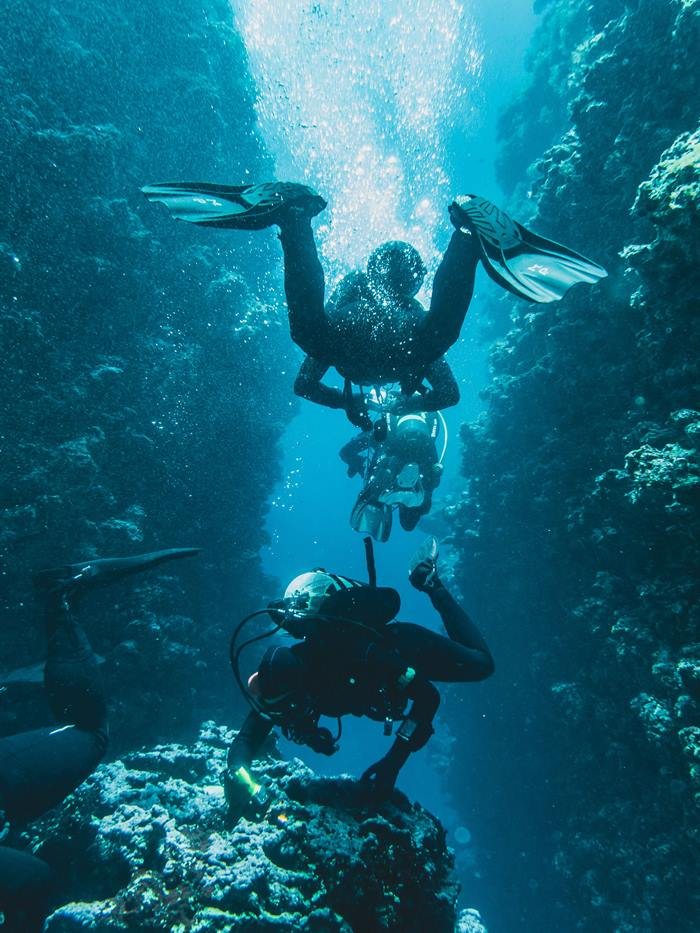
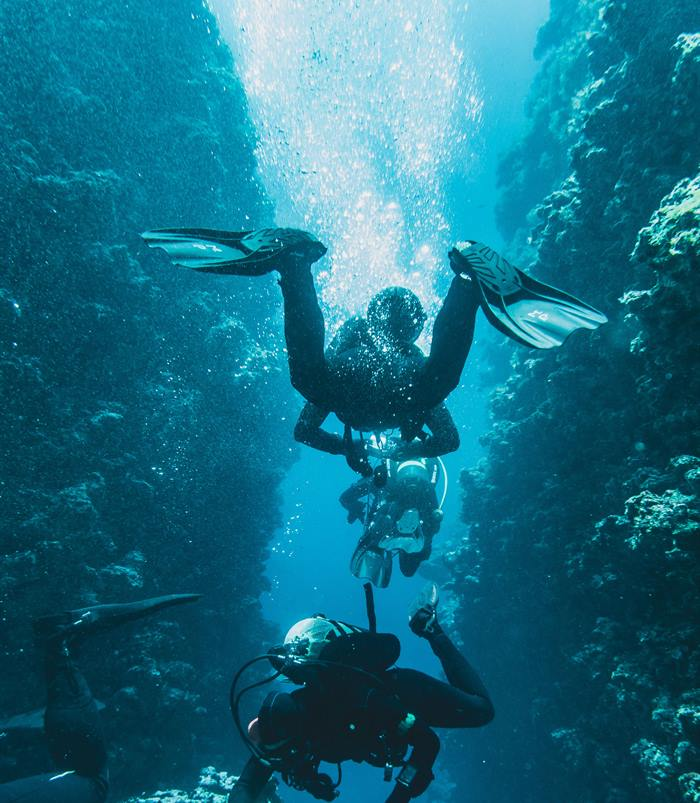
Mobile hero: two-line headline with the diver centred between lines

diff --git a/css/styles.css b/css/styles.css
@@ -1094,13 +1094,15 @@ figcaption .image-note { margin-left: auto; }
   .brand__name span { font-size: 0.92rem; }
 
   .hero { min-height: max(100svh, 640px); }
-  .hero__media img { object-position: 50% 30%; }
+  .hero { background: var(--ink); }
+  .hero__media { bottom: auto; height: max(100svh, 640px); }
+  .hero__media img { object-position: 64% 50%; }
   .hero__inner { padding-bottom: 2.5rem; }
-  .hero__eyebrow { text-align: left; letter-spacing: 0.22em; font-size: 0.7rem; }
-  .hero__title { text-align: left; font-size: clamp(2.35rem, 11.4vw, 4.5rem); line-height: 0.94; }
-  .hero__line { white-space: normal; }
-  .hero__line--2 { margin-top: 0.1em; }
-  .hero__foot { padding-top: 46vh; gap: 2rem; }
+  .hero__eyebrow { letter-spacing: 0.22em; font-size: 0.7rem; }
+  /* Sized so "WORLD BELOW." (about 9.9em wide) always fits on one line. */
+  .hero__title { font-size: calc((100vw - 2 * var(--gutter)) / 10.4); line-height: 0.94; }
+  .hero__line--2 { margin-top: max(14rem, 34svh); }
+  .hero__foot { padding-top: 2.25rem; gap: 2rem; }
   .hero__actions .btn { flex: 1 1 100%; }
   .hero__panel { grid-template-columns: 84px 1fr; gap: 1rem; padding: 1rem; }
   .hero__panel-img { width: 84px; min-height: 110px; }

diff --git a/index.html b/index.html
@@ -105,7 +105,7 @@
     <section class="hero" id="top" aria-labelledby="hero-title">
       <div class="hero__media">
         <picture>
-          <source media="(max-width: 700px)" srcset="assets/img/hero-diver-tall-700.jpg 700w, assets/img/hero-diver-tall-1000.jpg 1000w" sizes="100vw" width="1000" height="1333">
+          <source media="(max-width: 700px)" srcset="assets/img/hero-diver-tall-700.jpg 700w, assets/img/hero-diver-tall-1000.jpg 1000w" sizes="100vw" width="1000" height="1147">
           <img src="assets/img/hero-diver-wide-1600.jpg" srcset="assets/img/hero-diver-wide-1000.jpg 1000w, assets/img/hero-diver-wide-1600.jpg 1600w, assets/img/hero-diver-wide-2400.jpg 2400w" sizes="100vw" width="1600" height="1001" alt="A scuba diver descends through a shaft of blue light between underwater rock walls." fetchpriority="high" decoding="async">
         </picture>
       </div>
